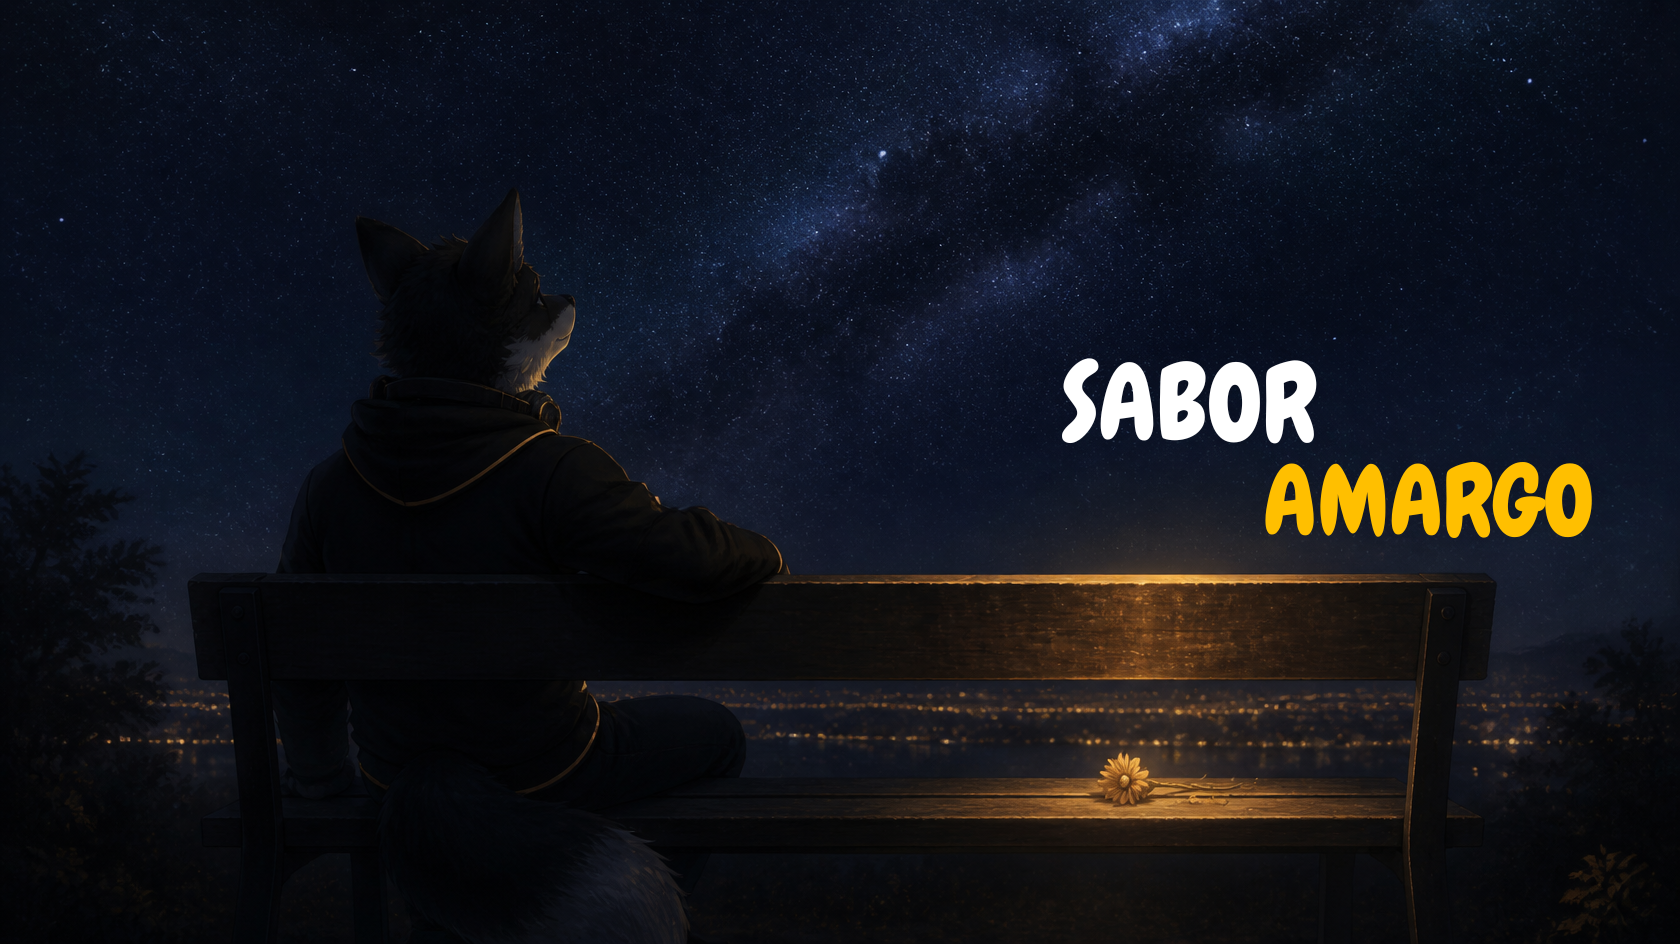
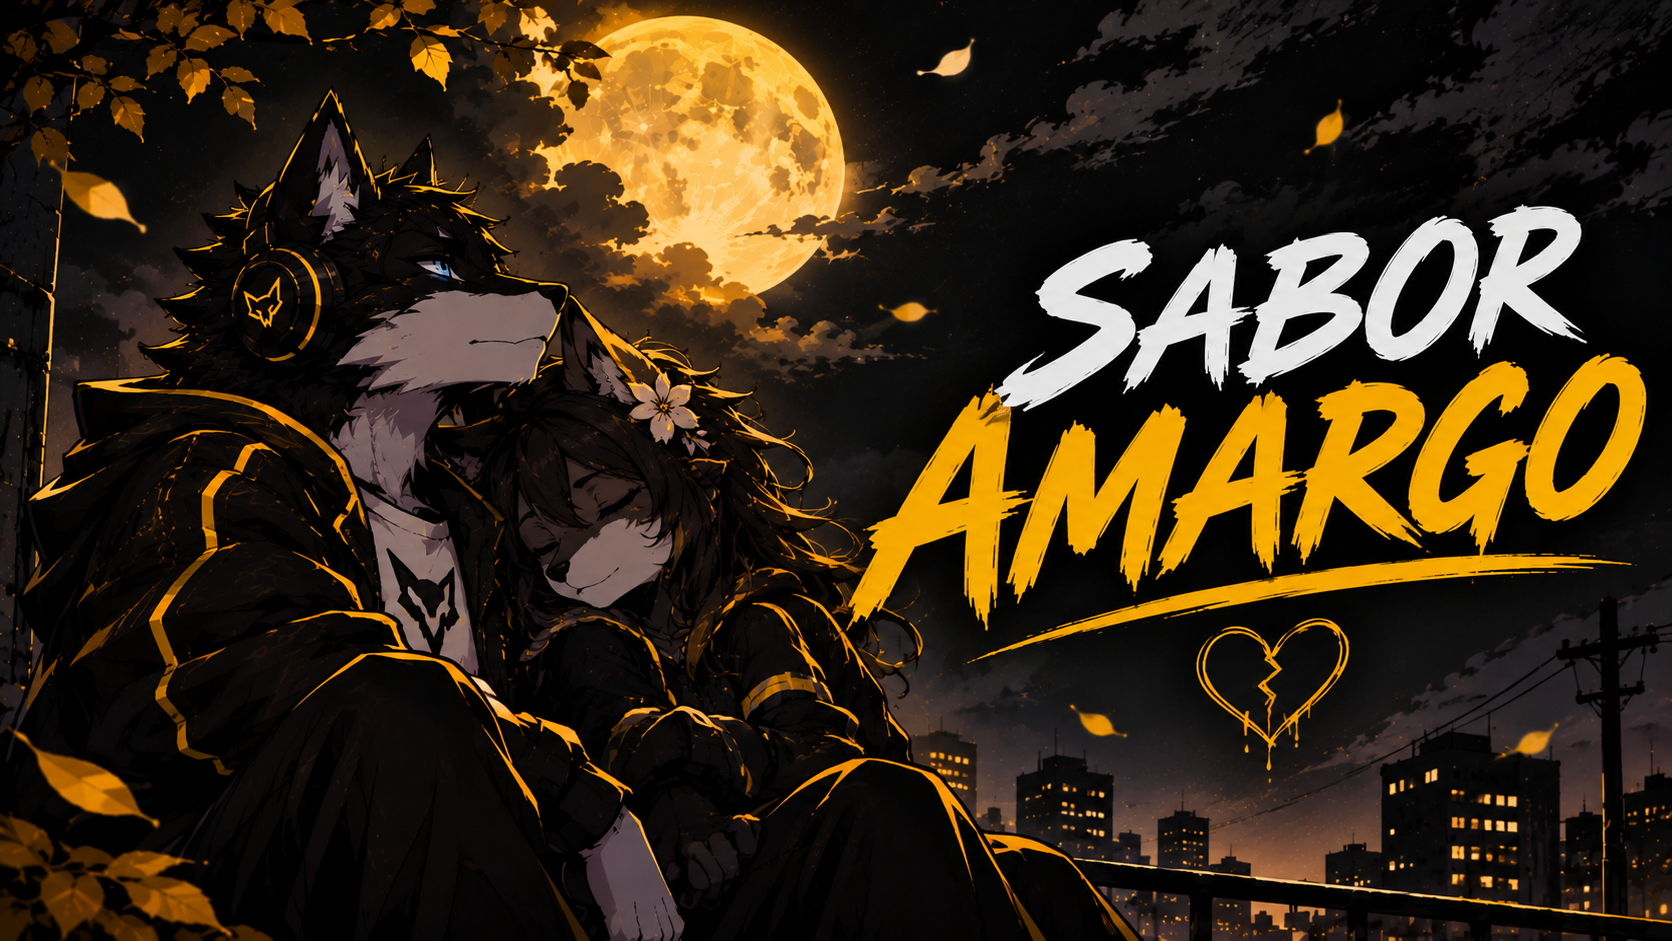
Capas

diff --git a/content/posts/Garota-da-Noite.md b/content/posts/Garota-da-Noite.md
@@ -5,6 +5,8 @@ tags: Poesia, Devaneios
 excerpt: garota da noite você me fala coisas tão bonitas.. 
 ---
 
+![Capa do Post](assets/Garota-da-Noite.png)
+
 Linda é a noite nesta cidade, ela me lembra a você.
 imagino como seria eu e você nesta praia juntos sobre a luz do luar.. eu te vejo em minha mente andando sobre a areia enquanto sorrir.
 
